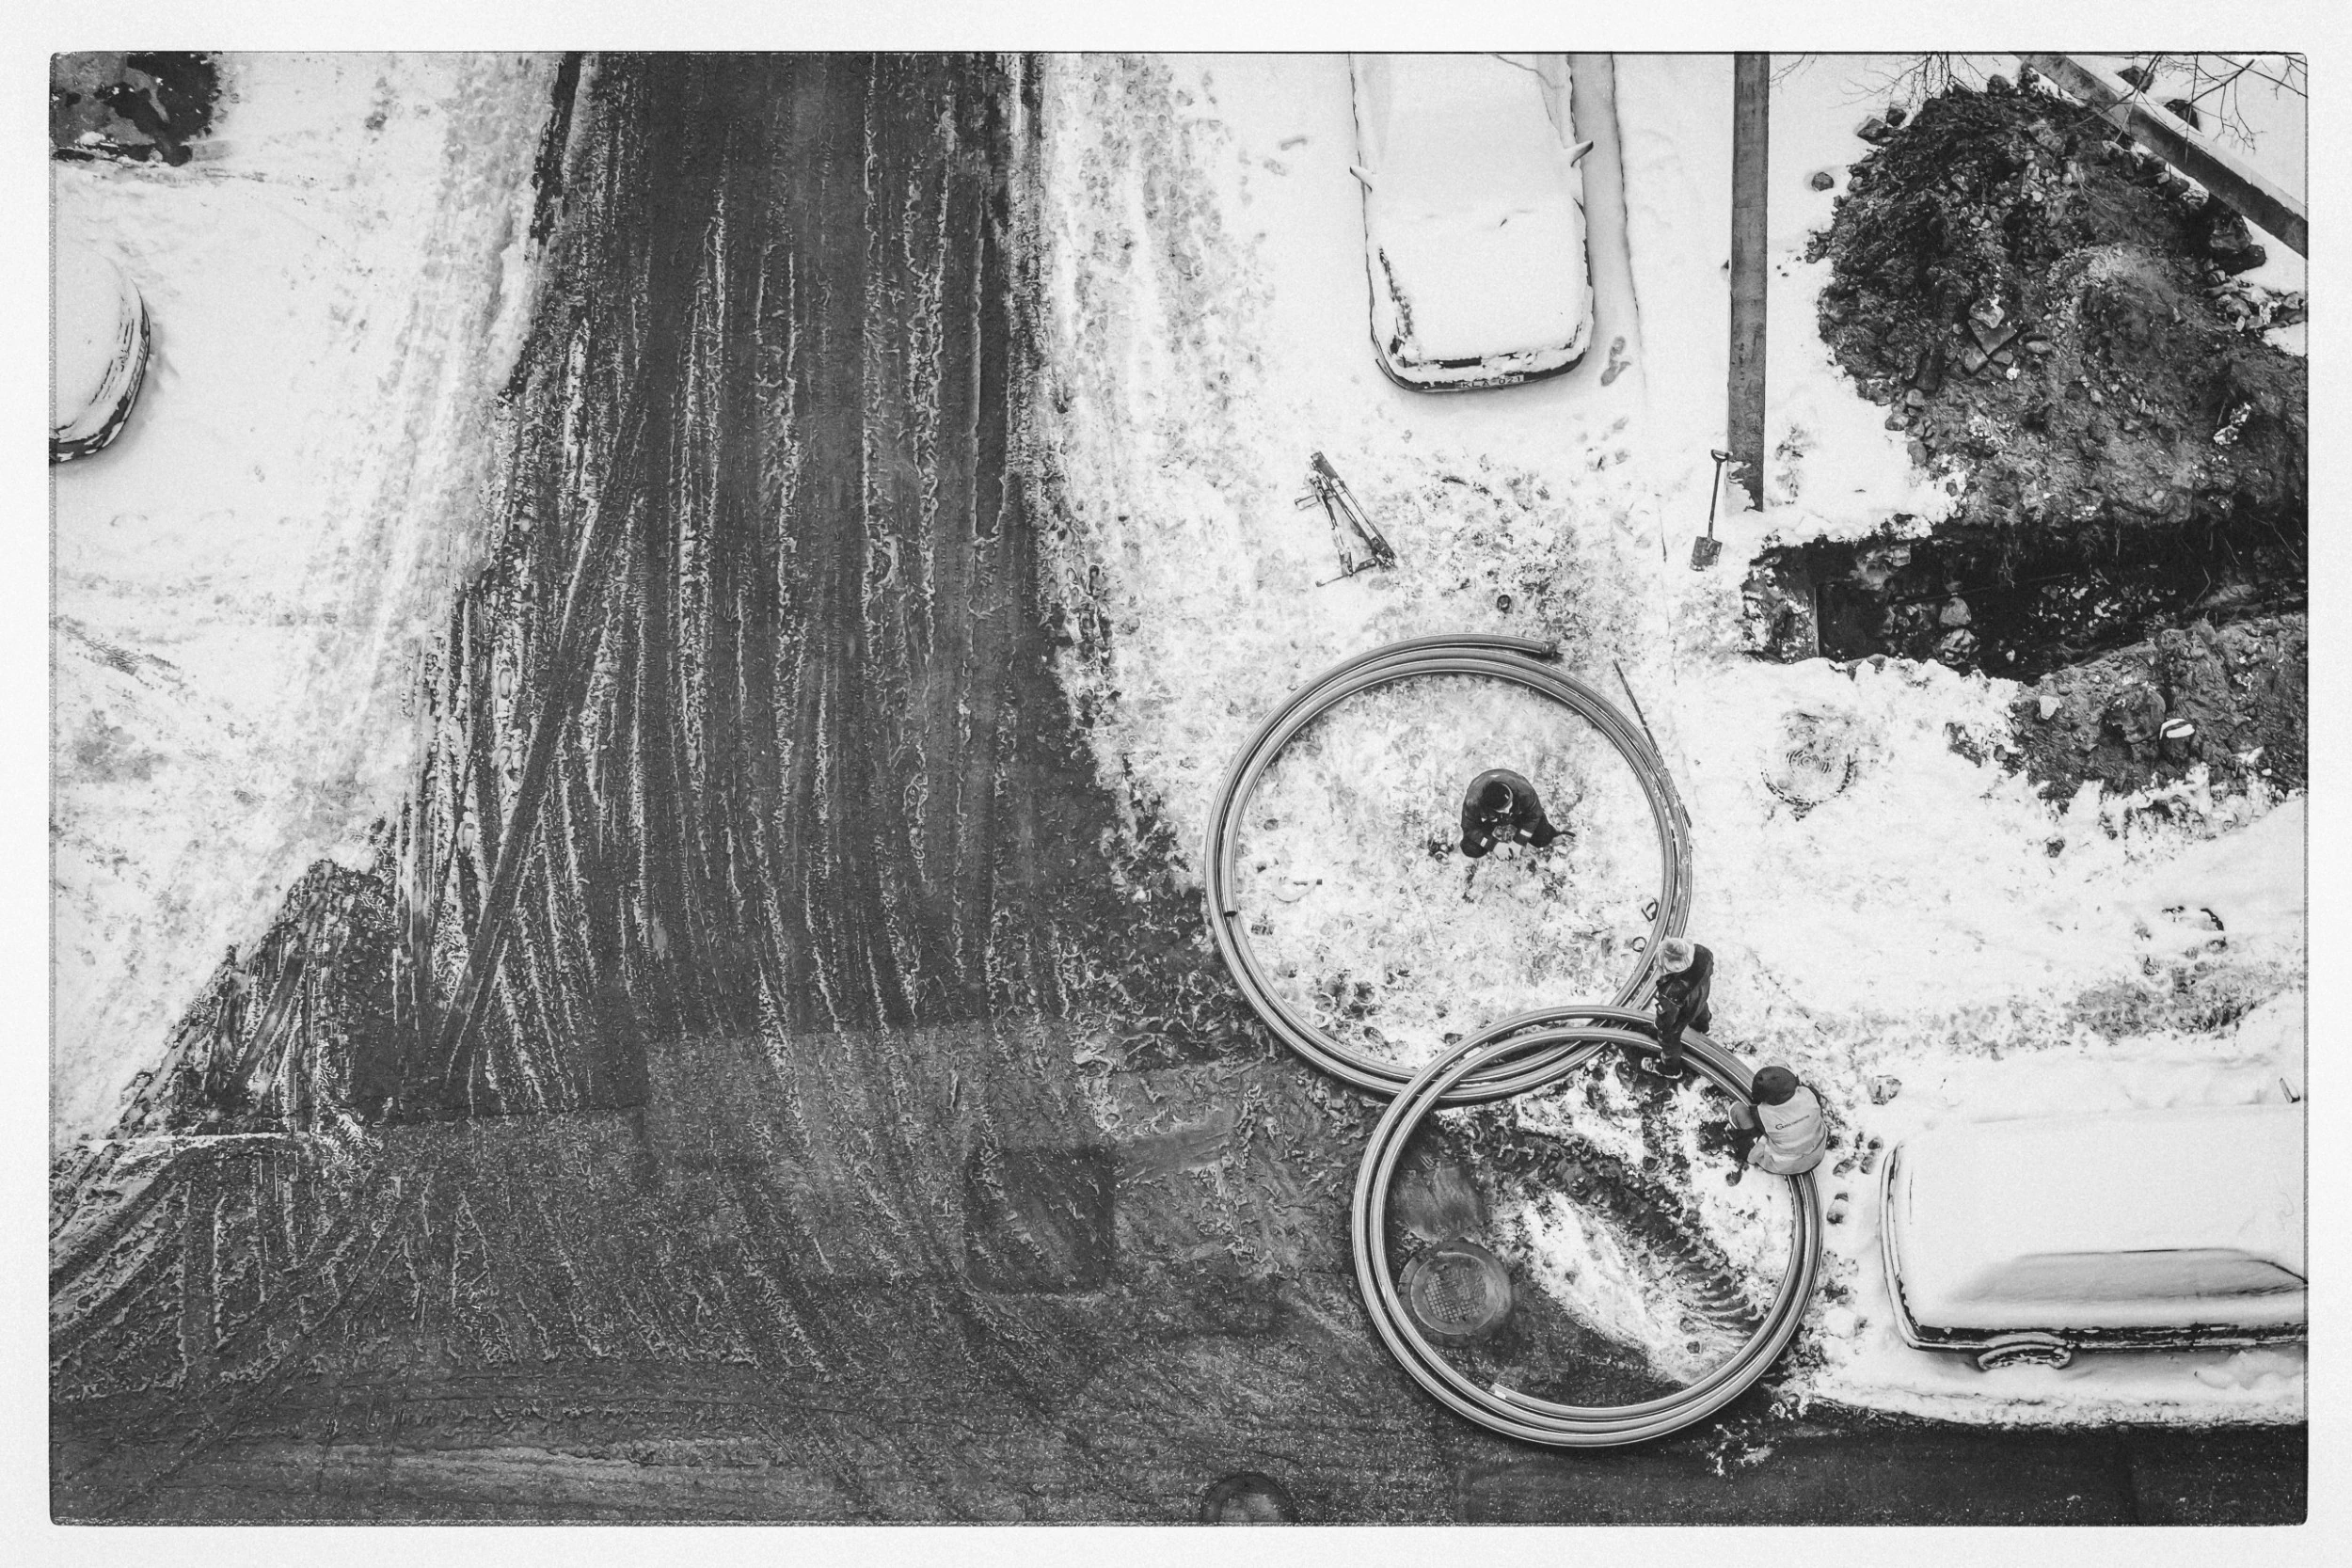
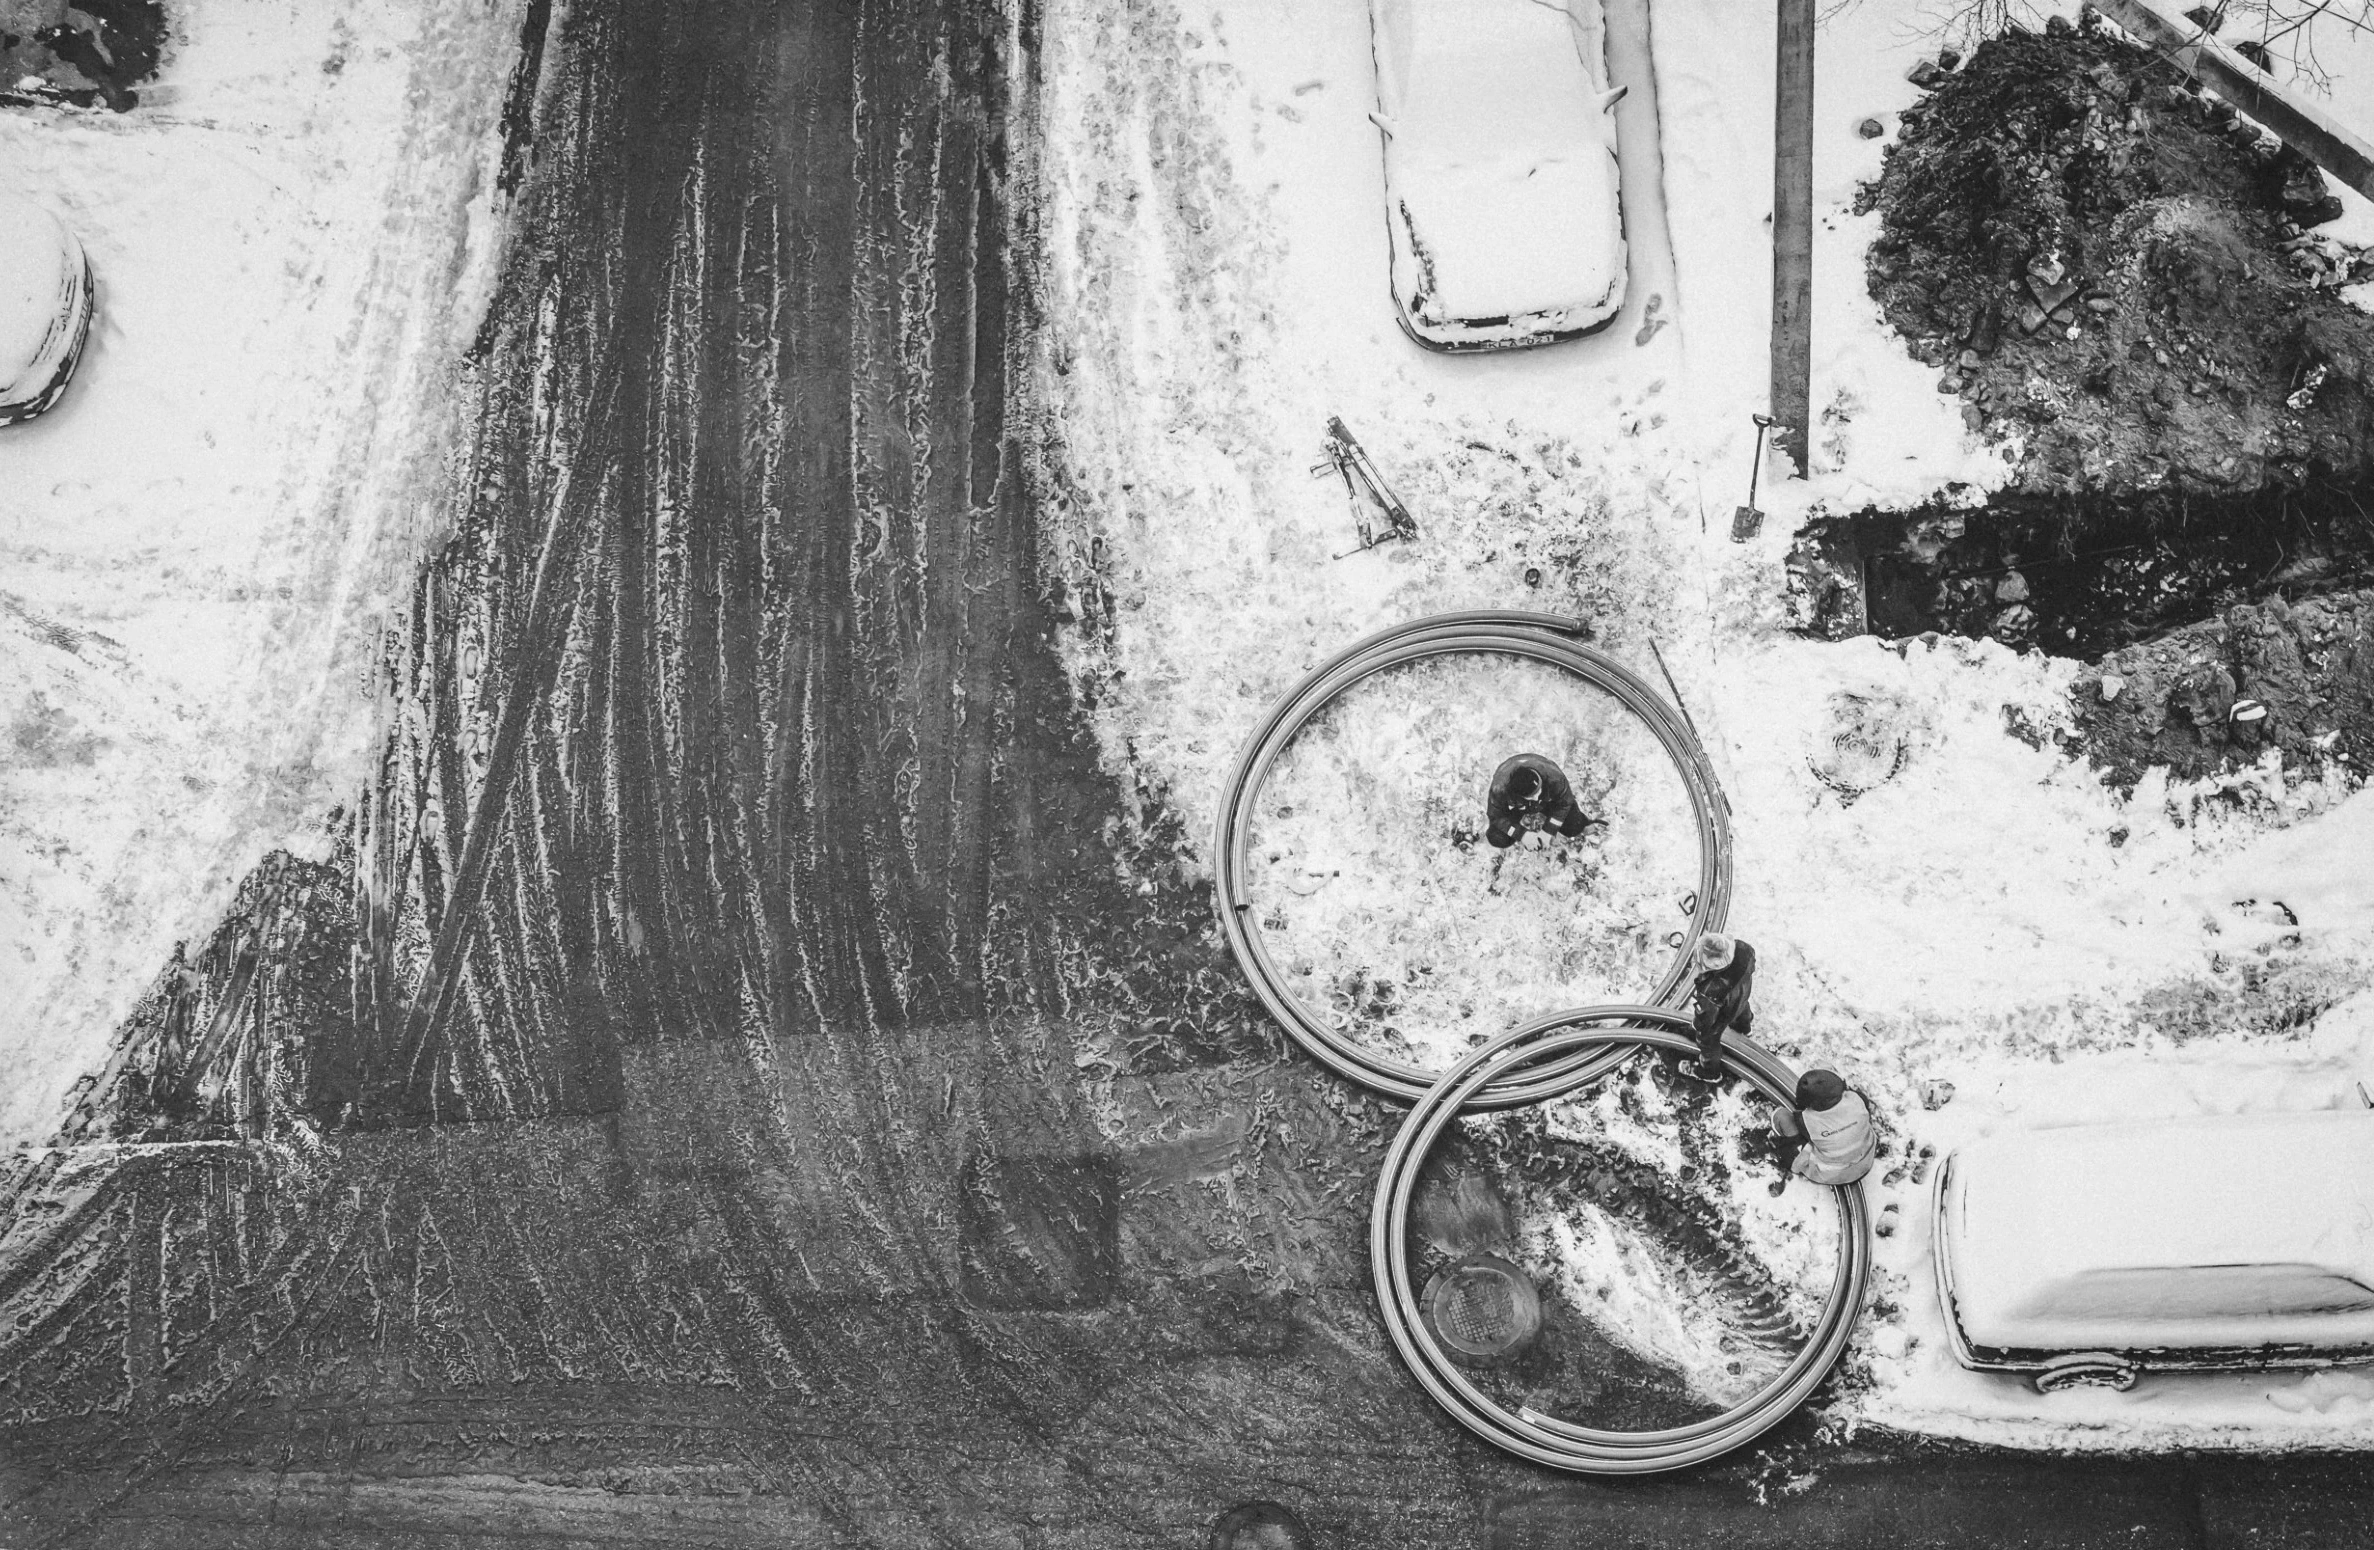
Add script to create thumbnails for images in specified directories
- Introduced `create-thumbnails.js` to generate thumbnails in WebP format.
- Supports multiple image formats: JPG, JPEG, PNG, and WebP.
- Automatically creates a 'thumbs' directory for output.
- Resizes images to a maximum of 900x900 pixels while maintaining aspect ratio.
- Includes error handling for directory and file operations.

diff --git a/scripts/create-thumbnails.js b/scripts/create-thumbnails.js
@@ -1,0 +1,92 @@
+import fs from 'node:fs/promises'
+import path from 'node:path'
+import sharp from 'sharp'
+
+const defaultDirs = [path.resolve('images', 'events'), path.resolve('images', 'street')]
+const allowedExtensions = new Set(['.jpg', '.jpeg', '.png', '.webp'])
+const thumbDirName = 'thumbs'
+const thumbExt = '.webp'
+const maxSize = 900
+const quality = 80
+const effort = 6
+
+async function walk(dir) {
+  const entries = await fs.readdir(dir, { withFileTypes: true })
+  const files = []
+
+  for (const entry of entries) {
+    const fullPath = path.join(dir, entry.name)
+    if (entry.isDirectory()) {
+      if (entry.name === thumbDirName) {
+        continue
+      }
+      files.push(...(await walk(fullPath)))
+    } else if (entry.isFile() && allowedExtensions.has(path.extname(entry.name).toLowerCase())) {
+      files.push(fullPath)
+    }
+  }
+
+  return files
+}
+
+async function createThumbnail(filePath) {
+  const parsed = path.parse(filePath)
+  const outputDir = path.join(parsed.dir, thumbDirName)
+  const outputPath = path.join(outputDir, `${parsed.name}${thumbExt}`)
+
+  try {
+    await fs.mkdir(outputDir, { recursive: true })
+    await sharp(filePath)
+      .resize({ width: maxSize, height: maxSize, fit: 'inside', withoutEnlargement: true })
+      .webp({ quality, effort })
+      .toFile(outputPath)
+    return outputPath
+  } catch (error) {
+    console.error(`Failed to create thumbnail for ${filePath}:`, error)
+    return null
+  }
+}
+
+async function main() {
+  const targets = process.argv.slice(2).length ? process.argv.slice(2).map((dir) => path.resolve(dir)) : defaultDirs
+
+  for (const targetDir of targets) {
+    try {
+      const stats = await fs.stat(targetDir)
+      if (!stats.isDirectory()) {
+        console.error(`Target is not a directory: ${targetDir}`)
+        continue
+      }
+    } catch {
+      console.error(`Directory not found: ${targetDir}`)
+      continue
+    }
+
+    const files = await walk(targetDir)
+    const sourceFiles = files.filter((file) => {
+      const parsed = path.parse(file)
+      return !file.includes(`${path.sep}${thumbDirName}${path.sep}`) && !parsed.name.endsWith('-thumb')
+    })
+
+    if (!sourceFiles.length) {
+      console.log(`No source images found in ${targetDir}.`)
+      continue
+    }
+
+    const created = []
+    for (const file of sourceFiles) {
+      const output = await createThumbnail(file)
+      if (output) {
+        created.push(output)
+        console.log(`Created thumbnail: ${output}`)
+      }
+    }
+
+    console.log(`Processed ${sourceFiles.length} source image${sourceFiles.length === 1 ? '' : 's'} in ${targetDir}.`)
+  }
+}
+
+main().catch((error) => {
+  console.error('Error creating thumbnails:', error)
+  process.exit(1)
+})

diff --git a/src/data/content.ts b/src/data/content.ts
@@ -33,42 +33,83 @@ type EventImage = {
   title: string
   location: string
   image: string
+  thumbnail?: string
 }
 
-const portfolioImageModules = import.meta.glob('../../images/events/*.{jpg,jpeg,png,webp}', {
+const normalizePath = (value: string) => value.replace(/\\/g, '/')
+const getFilename = (path: string) => normalizePath(path).split('/').pop() ?? ''
+const getBaseName = (filename: string) => filename.replace(/\.[^/.]+$/, '')
+const stripThumbSegment = (relativePath: string) =>
+  normalizePath(relativePath)
+    .split('/')
+    .filter((segment) => segment !== 'thumbs')
+    .join('/')
+
+const buildThumbnailMap = (modules: Record<string, string>, rootDir: string) =>
+  Object.entries(modules).reduce<Record<string, string>>((acc, [path, image]) => {
+    const normalized = normalizePath(path)
+    const relative = normalized.split(`${rootDir}/`).pop() ?? normalized
+    const key = getBaseName(stripThumbSegment(relative))
+    acc[key] = image
+    return acc
+  }, {})
+
+const eventImageModules = import.meta.glob('../../images/events/**/*.{jpg,jpeg,png,webp}', {
   eager: true,
   query: '?url',
   import: 'default'
 }) as Record<string, string>
 
-export const eventImages: EventImage[] = Object.entries(portfolioImageModules)
+const eventThumbnailModules = import.meta.glob('../../images/events/**/thumbs/*.{jpg,jpeg,png,webp}', {
+  eager: true,
+  query: '?url',
+  import: 'default'
+}) as Record<string, string>
+
+const eventThumbnailMap = buildThumbnailMap(eventThumbnailModules, 'images/events')
+
+export const eventImages: EventImage[] = Object.entries(eventImageModules)
+  .filter(([path]) => !normalizePath(path).includes('/thumbs/'))
   .map(([path, image], index) => {
-    const filename = path.split('/').pop() ?? `portfolio-${index + 1}`
-    const title = filename.replace(/\.[^/.]+$/, '').replace(/[-_]+/g, ' ').trim()
+    const filename = getFilename(path)
+    const title = getBaseName(filename).replace(/[-_]+/g, ' ').trim()
+    const basename = getBaseName(stripThumbSegment(normalizePath(path).split('images/events/').pop() ?? filename))
     return {
       id: index + 1,
       title: title.charAt(0).toUpperCase() + title.slice(1),
-      location: 'Portfolio',
-      image
+      location: 'Events',
+      image,
+      thumbnail: eventThumbnailMap[basename]
     }
   })
   .sort((a, b) => a.title.localeCompare(b.title, undefined, { numeric: true, sensitivity: 'base' }))
 
-const streetImageModules = import.meta.glob('../../images/street/*.{jpg,jpeg,png,webp}', {
+const streetImageModules = import.meta.glob('../../images/street/**/*.{jpg,jpeg,png,webp}', {
   eager: true,
   query: '?url',
   import: 'default'
 }) as Record<string, string>
 
+const streetThumbnailModules = import.meta.glob('../../images/street/**/thumbs/*.{jpg,jpeg,png,webp}', {
+  eager: true,
+  query: '?url',
+  import: 'default'
+}) as Record<string, string>
+
+const streetThumbnailMap = buildThumbnailMap(streetThumbnailModules, 'images/street')
+
 export const streetPhotographyImages: EventImage[] = Object.entries(streetImageModules)
+  .filter(([path]) => !normalizePath(path).includes('/thumbs/'))
   .map(([path, image], index) => {
-    const filename = path.split('/').pop() ?? `street-${index + 1}`
-    const title = filename.replace(/\.[^/.]+$/, '').replace(/[-_]+/g, ' ').trim()
+    const filename = getFilename(path) || `street-${index + 1}`
+    const title = getBaseName(filename).replace(/[-_]+/g, ' ').trim()
+    const basename = getBaseName(stripThumbSegment(normalizePath(path).split('images/street/').pop() ?? filename))
     return {
       id: index + 1,
       title: title.charAt(0).toUpperCase() + title.slice(1),
       location: 'Street',
-      image
+      image,
+      thumbnail: streetThumbnailMap[basename]
     }
   })
   .sort((a, b) => a.title.localeCompare(b.title, undefined, { numeric: true, sensitivity: 'base' }))

diff --git a/src/components/ImageGallery.tsx b/src/components/ImageGallery.tsx
@@ -11,6 +11,7 @@ type ImageItem = {
   title: string
   location: string
   image: string
+  thumbnail?: string
 }
 
 type ImageGalleryProps = {
@@ -112,7 +113,7 @@ export function ImageGallery({ images, fadeInUp, staggerContainer, reduceMotion,
 
     images.forEach((item) => {
       const img = new Image()
-      img.src = item.image
+      img.src = item.thumbnail ?? item.image
       img.onload = () => {
         const orientation: Orientation = img.naturalWidth > img.naturalHeight ? 'landscape' : img.naturalWidth < img.naturalHeight ? 'portrait' : 'square'
         setImageOrientations((prev) => {
@@ -249,9 +250,9 @@ export function ImageGallery({ images, fadeInUp, staggerContainer, reduceMotion,
                 className={`group relative inline-block w-full overflow-hidden rounded-3xl bg-stone-200 ${getLayoutClass(item, i)} cursor-pointer focus:outline-none focus:ring-2 focus:ring-amber-400 break-inside-avoid`}
               >
                 <img
-                  src={item.image}
+                  src={item.thumbnail ?? item.image}
                   alt={item.title}
-                  loading="eager"
+                  loading="lazy"
                   decoding="async"
                   className="ken-burns absolute inset-0 w-full h-full object-cover transition-transform duration-700 ease-out"
                   style={imageAnimationStyles[item.id]}

diff --git a/src/components/PortfolioSection.tsx b/src/components/PortfolioSection.tsx
@@ -203,7 +203,7 @@ export function PortfolioSection({ fadeInUp, staggerContainer, reduceMotion, t }
                   className={`group relative inline-block w-full overflow-hidden rounded-3xl bg-stone-200 ${itemLayouts[i % itemLayouts.length]} cursor-pointer focus:outline-none focus:ring-2 focus:ring-amber-400 break-inside-avoid`}
                 >
                   <img
-                    src={item.image}
+                    src={item.thumbnail ?? item.image}
                     alt={item.title}
                     loading="lazy"
                     decoding="async"